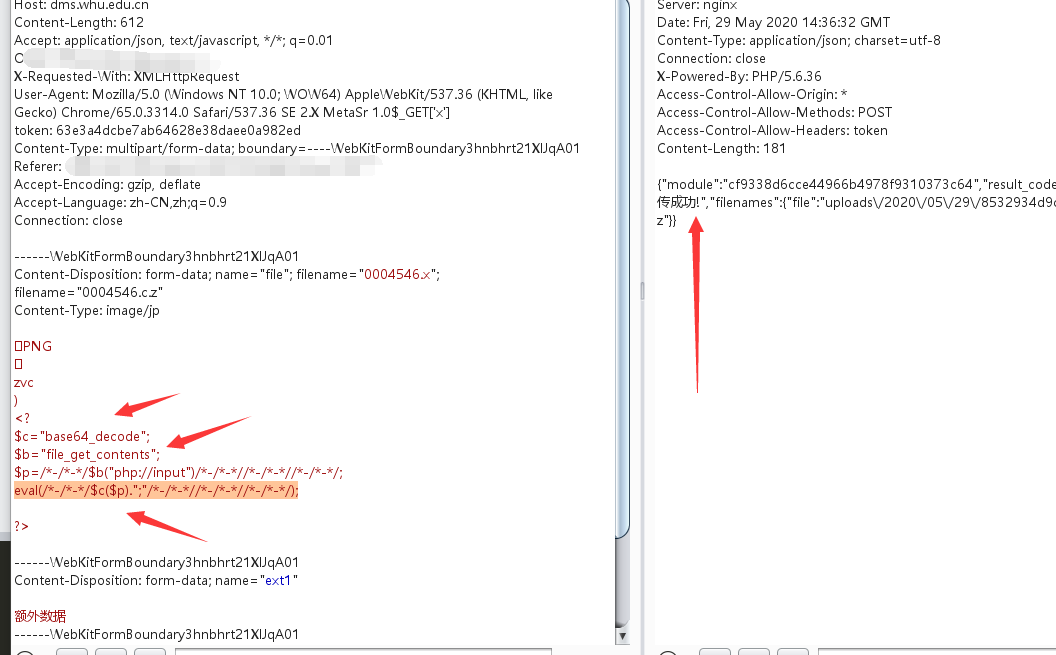
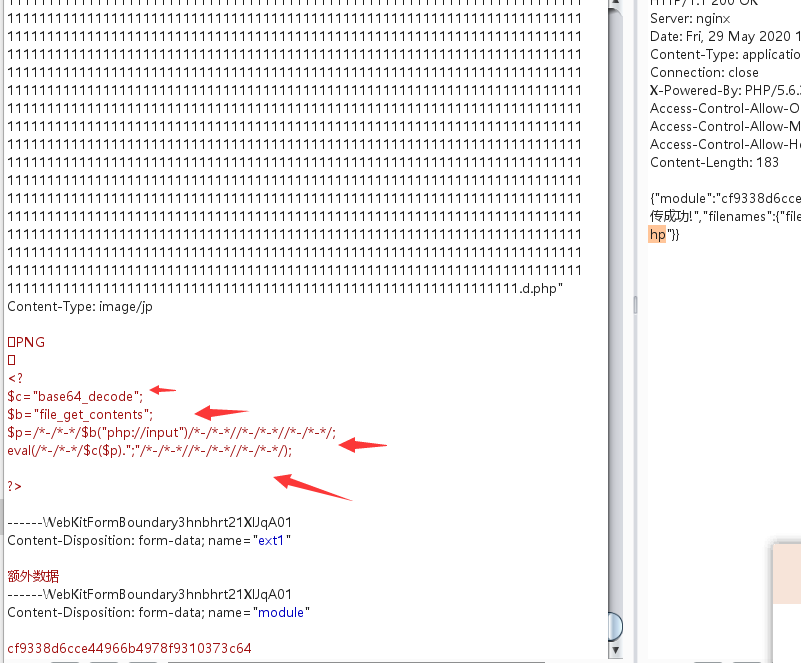
Site updated: 2020-05-30 00:54:37

Changed region(s): [[0.0, 0.0, 1.0, 1.0], [0.3745, 0.7328, 0.437, 0.7634]]

diff --git a/2020/05/29/如何日母校/index.html b/2020/05/29/如何日母校/index.html
@@ -6,11 +6,11 @@
   <meta name="renderer" content="webkit">
   <meta http-equiv="X-UA-Compatible" content="IE=edge" >
   <link rel="dns-prefetch" href="http://yoursite.com">
-  <title>如何日母校 | Hexo</title>
+  <title>如何绕过某985(母校)钢铁waf并拿下该系统 | Hexo</title>
   <meta name="viewport" content="width=device-width, initial-scale=1, maximum-scale=1">
   <meta name="description" content="绕过万恶的waf并getshell">
 <meta property="og:type" content="article">
-<meta property="og:title" content="如何日母校">
+<meta property="og:title" content="如何绕过某985(母校)钢铁waf并拿下该系统">
 <meta property="og:url" content="http://yoursite.com/2020/05/29/%E5%A6%82%E4%BD%95%E6%97%A5%E6%AF%8D%E6%A0%A1/index.html">
 <meta property="og:site_name" content="Hexo">
 <meta property="og:description" content="绕过万恶的waf并getshell">
@@ -25,7 +25,7 @@
 <meta property="og:image" content="http://yoursite.com/2020/05/29/%E5%A6%82%E4%BD%95%E6%97%A5%E6%AF%8D%E6%A0%A1/8.png">
 <meta property="og:image" content="http://yoursite.com/2020/05/29/%E5%A6%82%E4%BD%95%E6%97%A5%E6%AF%8D%E6%A0%A1/9.png">
 <meta property="article:published_time" content="2020-05-29T15:06:01.000Z">
-<meta property="article:modified_time" content="2020-05-29T16:15:45.599Z">
+<meta property="article:modified_time" content="2020-05-29T16:42:00.911Z">
 <meta property="article:author" content="阿欢">
 <meta property="article:tag" content="bypass">
 <meta name="twitter:card" content="summary">
@@ -172,7 +172,7 @@
         
   
     <h1 class="article-title" itemprop="name">
-      如何日母校
+      如何绕过某985(母校)钢铁waf并拿下该系统
     </h1>
   
 
@@ -192,27 +192,28 @@
 <p><strong>正文</strong></p>
 <p>进后台后，找到上传点,首先我发现改后缀后重新发包生成的文件的后缀没有变化,我第一次后缀是.jpg 第二次改成.x 但是显示上传成功还是jpg 此时有一丝不安涌上心头</p>
 <p><img src="/2020/05/29/%E5%A6%82%E4%BD%95%E6%97%A5%E6%AF%8D%E6%A0%A1/1.png" alt="如何日母校"></p>
-<p>接着我想是不是上图中的moudle值影响   然后我改了moudle值 发包  咦  上传成功 然后返回文件还是jpg  不慌 继续<br>然后我改了文件内容 在一发包 嘿嘿 返回文件后缀变成 x了 此时 心中已经是胸有成竹 好像已经日下来了一样(没想到后面绕waf饶了好久)……</p>
+<p>接着我想是不是上图中的moudle值影响   然后我改了moudle值 发包  咦  上传成功 然后返回文件还是jpg  不慌 继续<br>然后我改了文件内容 在一发包 嘿嘿 返回文件后缀变成 x了 此时 心中已经是胸有成竹(应该是判断了文件内容,一样的话就不变,之前也没注意文件名..只盯着后缀了) 好像已经日下来了一样(没想到后面绕waf饶了好久)……</p>
 <p>刚开始的时候 我发现只要一个包被waf检测到 那直接封几个小时…..我擦了…有这么变态的吗……………..然后第一天果断放弃 玩玩游戏什么的不香吗…..</p>
 <p>第二天晚上 有点无聊 打开burp 打开浏览器 访问之 , 这次我发包学聪明了,之前一发恶意包 然后wating 好久 然后connect reset 然后凉凉<br>这次我只要发现在waiting 我直接cancle 我发现这样竟然不会马上封我  可能因为 我提前断开连接了? 还是什么原因不知道 这样就可以继续fuzzing了</p>
-<p>刚开始尝试就给我当头一棒  waf直接检测 <?php   不能出现php标签, 我想 这玩个屁, 只有用php短标签碰一碰运气了  关于php短标签 我是从百度上找的:
-当解析一个文件时，PHP 会寻找起始和结束标记，也就是 <?php 和 ?>，这告诉 PHP 开始和停止解析二者之间的代码。此种解析方式使得 PHP 可以被嵌入到各种不同的文档中去，而任何起始和结束标记之外的部分都会被 PHP 解析器忽略。</p>
-<p>PHP 也允许使用短标记 <? 和 ?>，但不鼓励使用。只有通过激活 php.ini 中的 short_open_tag 配置指令或者在编译 PHP 时使用了配置选项 –enable-short-tags 时才能使用短标记</p>
-<p>因为需要开启一个配置选项 所以说只能是碰碰运气  没想到还真可以  发了个 <? echo 1111 ?> 发现可以 讲到这儿又要说一下怎么绕过  filename=’xxxxx.php’ 这个地方waf的检测了 试了几种  ‘xx.jpg.php’ ‘xxx.php.jpg’  截断 还有各种后缀 phtml pht php3 php4 Php<br>filename=’xxxxx.jpg’；filename=’xxxxx.php’ 还有几种奇奇怪怪的模式 等等发现都绕不过 这时候想起来从别人那学到的垃圾数据,你别说,垃圾数据真给力,我生成了20w个1,发包! 一发入魂,成功让waf崩溃或者说waf对filename的长度没有处理什么的 如下图:</p>
+<p>刚开始尝试就给我当头一棒  waf直接检测 &lt;?php   不能出现php标签, 我想 这玩个屁, 只有用php短标签碰一碰运气了  关于php短标签 我是从百度上找的:<br>当解析一个文件时，PHP 会寻找起始和结束标记，也就是 &lt;?php 和 ?&gt;，这告诉 PHP 开始和停止解析二者之间的代码。此种解析方式使得 PHP 可以被嵌入到各种不同的文档中去，而任何起始和结束标记之外的部分都会被 PHP 解析器忽略。</p>
+<p>PHP 也允许使用短标记 &lt;? 和 ?&gt;，但不鼓励使用。只有通过激活 php.ini 中的 short_open_tag 配置指令或者在编译 PHP 时使用了配置选项 –enable-short-tags 时才能使用短标记</p>
+<p>因为需要开启一个配置选项 所以说只能是碰碰运气  没想到还真可以  发了个</p>
+<figure class="highlight plain"><table><tr><td class="gutter"><pre><span class="line">1</span><br></pre></td><td class="code"><pre><span class="line">&lt;? echo 1111 ?&gt;  </span><br></pre></td></tr></table></figure>
+<p>发现可以 讲到这儿又要说一下怎么绕过  filename=’xxxxx.php’ 这个地方waf的检测了,也就是如何上传php文件 开始试了几种  ‘xx.jpg.php’ ‘xxx.php.jpg’  截断 还有各种后缀 phtml pht php3 php4 Php<br>filename=’xxxxx.jpg’；filename=’xxxxx.php’ 还有几种奇奇怪怪的模式 等等发现都绕不过 这时候想起来从别人那学到的垃圾数据,你别说,垃圾数据真给力,我生成了20w个1,发包! 一发入魂,成功让waf崩溃或者说waf对filename的长度没有处理什么的 如下图:</p>
 <p><img src="/2020/05/29/%E5%A6%82%E4%BD%95%E6%97%A5%E6%AF%8D%E6%A0%A1/2.png" alt="如何日母校"></p>
 <p>接下来继续说php文件的内容如何绕过waf,经过漫长的尝试我发现   eval() 不能出现  而且很多函数 比如 file_get_contents() 都是不能直接出现的 不过有一些函数可以通过</p>
 <figure class="highlight plain"><table><tr><td class="gutter"><pre><span class="line">1</span><br></pre></td><td class="code"><pre><span class="line">$a&#x3D;&quot;file_&quot;+&quot;get_&quot;+&quot;contents&quot;; $a();  </span><br></pre></td></tr></table></figure>  
 <p>这种方式来利用 但是不是所有函数都可以 什么 eval file_put_contents 都不行 本来准备利用 file_put_contents来写文件的这条路也不行了<br>还想到了 无字母shell<br><img src="/2020/05/29/%E5%A6%82%E4%BD%95%E6%97%A5%E6%AF%8D%E6%A0%A1/6.png" alt="如何日母校"><br>可惜直接传不行  需要在后面加一个左括号 (  或者 )  可能检测了括号的匹配对数  然后我尝试 注释掉多余的括号 但是发现 加了注释就绕不过了 ….<br>思考的时候,瞅了瞅以前绕waf的一些东西(所以说收集一些免杀东西什么还是有用的),直接放上去都不太行,不过我发现了一个比较关键的 那就是利用注释来进行混淆    几次尝试后发现 </p>
 <figure class="highlight plain"><table><tr><td class="gutter"><pre><span class="line">1</span><br></pre></td><td class="code"><pre><span class="line">eval(&#x2F;*-&#x2F;*-*&#x2F;$p&#x2F;*-&#x2F;*-*&#x2F;&#x2F;*-&#x2F;*-*&#x2F;&#x2F;*-&#x2F;*-*&#x2F;); </span><br></pre></td></tr></table></figure>
-<p>这个不会被拦截,终于,我看到了希望,只要eval不被拦,什么都有戏,然后就是  如何构造这个$p了 直接<br>从 <figure class="highlight plain"><table><tr><td class="gutter"><pre><span class="line">1</span><br></pre></td><td class="code"><pre><span class="line">$p&#x3D;$-GET[&#39;x&#39;];$p&#x3D;$-POST[&#39;x&#39;];$p&#x3D;$-SERVER[&#39;X&#39;] </span><br></pre></td></tr></table></figure> 这样都是不行会被封, 不过嘛还有 php:input 关于php:input流,我从百度找的介绍:<br>php://input :<br>php://input 是个可以访问请求的原始数据的只读流。 POST 请求的情况下，最好使用 php://input 来代替 $HTTP_RAW_POST_DATA</p>
+<p>这个不会被拦截,终于,我看到了希望,只要eval不被拦,什么都有戏,然后就是  如何构造这个$p了 直接<br>从 <figure class="highlight plain"><table><tr><td class="gutter"><pre><span class="line">1</span><br></pre></td><td class="code"><pre><span class="line">$p&#x3D;$\_GET[&#39;x&#39;];$p&#x3D;$\_POST[&#39;x&#39;];$p&#x3D;$\_SERVER[&#39;X&#39;] </span><br></pre></td></tr></table></figure> 这样都是不行会被封, 不过嘛还有 php//:input 关于php//:input流,我从百度找的介绍:<br>php://input :<br>php://input 是个可以访问请求的原始数据的只读流。 POST 请求的情况下，最好使用 php://input 来代替 $HTTP_RAW_POST_DATA</p>
 <p>通过他能获取参数就是  那么基本的小马就形成了  如下:</p>
 <p><img src="/2020/05/29/%E5%A6%82%E4%BD%95%E6%97%A5%E6%AF%8D%E6%A0%A1/3.png" alt="如何日母校"></p>
 <p>测试一下<br><img src="/2020/05/29/%E5%A6%82%E4%BD%95%E6%97%A5%E6%AF%8D%E6%A0%A1/4.png" alt="如何日母校"></p>
-<p>成功 发现disable了一些东西  刚开始也尝试过写cmd马 system执行也写成功 看来成功了也没用 给禁掉了</p>
+<p>成功 发现disable了一些东西  刚开始也尝试过写cmd马 也没写成功 看来成功了也没用 给禁掉了</p>
 <p>然后直接 </p>
 <figure class="highlight plain"><table><tr><td class="gutter"><pre><span class="line">1</span><br></pre></td><td class="code"><pre><span class="line">file_put_contents(&#39;1.php&#39;,base64_decode(&#39;流量加密小马内容&#39;))</span><br></pre></td></tr></table></figure>  
 
-<p>还是我太天真了  直接给我封了 过不去   看来还需要一层加密  </p>
+<p>还是我太天真了  直接给我封了 过不去   看来还需要一层加密  多加一层base64就ok </p>
 <p><img src="/2020/05/29/%E5%A6%82%E4%BD%95%E6%97%A5%E6%AF%8D%E6%A0%A1/5.png" alt="如何日母校"></p>
 <p>测试一下 </p>
 <p><img src="/2020/05/29/%E5%A6%82%E4%BD%95%E6%97%A5%E6%AF%8D%E6%A0%A1/7.png" alt="如何日母校">  </p>

diff --git a/index.html b/index.html
@@ -159,7 +159,7 @@
         
   
     <h1 itemprop="name">
-      <a class="article-title" href="/2020/05/29/%E5%A6%82%E4%BD%95%E6%97%A5%E6%AF%8D%E6%A0%A1/">如何日母校</a>
+      <a class="article-title" href="/2020/05/29/%E5%A6%82%E4%BD%95%E6%97%A5%E6%AF%8D%E6%A0%A1/">如何绕过某985(母校)钢铁waf并拿下该系统</a>
     </h1>
   
 
@@ -179,27 +179,28 @@
 <p><strong>正文</strong></p>
 <p>进后台后，找到上传点,首先我发现改后缀后重新发包生成的文件的后缀没有变化,我第一次后缀是.jpg 第二次改成.x 但是显示上传成功还是jpg 此时有一丝不安涌上心头</p>
 <p><img src="/2020/05/29/%E5%A6%82%E4%BD%95%E6%97%A5%E6%AF%8D%E6%A0%A1/1.png" alt="如何日母校"></p>
-<p>接着我想是不是上图中的moudle值影响   然后我改了moudle值 发包  咦  上传成功 然后返回文件还是jpg  不慌 继续<br>然后我改了文件内容 在一发包 嘿嘿 返回文件后缀变成 x了 此时 心中已经是胸有成竹 好像已经日下来了一样(没想到后面绕waf饶了好久)……</p>
+<p>接着我想是不是上图中的moudle值影响   然后我改了moudle值 发包  咦  上传成功 然后返回文件还是jpg  不慌 继续<br>然后我改了文件内容 在一发包 嘿嘿 返回文件后缀变成 x了 此时 心中已经是胸有成竹(应该是判断了文件内容,一样的话就不变,之前也没注意文件名..只盯着后缀了) 好像已经日下来了一样(没想到后面绕waf饶了好久)……</p>
 <p>刚开始的时候 我发现只要一个包被waf检测到 那直接封几个小时…..我擦了…有这么变态的吗……………..然后第一天果断放弃 玩玩游戏什么的不香吗…..</p>
 <p>第二天晚上 有点无聊 打开burp 打开浏览器 访问之 , 这次我发包学聪明了,之前一发恶意包 然后wating 好久 然后connect reset 然后凉凉<br>这次我只要发现在waiting 我直接cancle 我发现这样竟然不会马上封我  可能因为 我提前断开连接了? 还是什么原因不知道 这样就可以继续fuzzing了</p>
-<p>刚开始尝试就给我当头一棒  waf直接检测 <?php   不能出现php标签, 我想 这玩个屁, 只有用php短标签碰一碰运气了  关于php短标签 我是从百度上找的:
-当解析一个文件时，PHP 会寻找起始和结束标记，也就是 <?php 和 ?>，这告诉 PHP 开始和停止解析二者之间的代码。此种解析方式使得 PHP 可以被嵌入到各种不同的文档中去，而任何起始和结束标记之外的部分都会被 PHP 解析器忽略。</p>
-<p>PHP 也允许使用短标记 <? 和 ?>，但不鼓励使用。只有通过激活 php.ini 中的 short_open_tag 配置指令或者在编译 PHP 时使用了配置选项 –enable-short-tags 时才能使用短标记</p>
-<p>因为需要开启一个配置选项 所以说只能是碰碰运气  没想到还真可以  发了个 <? echo 1111 ?> 发现可以 讲到这儿又要说一下怎么绕过  filename=’xxxxx.php’ 这个地方waf的检测了 试了几种  ‘xx.jpg.php’ ‘xxx.php.jpg’  截断 还有各种后缀 phtml pht php3 php4 Php<br>filename=’xxxxx.jpg’；filename=’xxxxx.php’ 还有几种奇奇怪怪的模式 等等发现都绕不过 这时候想起来从别人那学到的垃圾数据,你别说,垃圾数据真给力,我生成了20w个1,发包! 一发入魂,成功让waf崩溃或者说waf对filename的长度没有处理什么的 如下图:</p>
+<p>刚开始尝试就给我当头一棒  waf直接检测 &lt;?php   不能出现php标签, 我想 这玩个屁, 只有用php短标签碰一碰运气了  关于php短标签 我是从百度上找的:<br>当解析一个文件时，PHP 会寻找起始和结束标记，也就是 &lt;?php 和 ?&gt;，这告诉 PHP 开始和停止解析二者之间的代码。此种解析方式使得 PHP 可以被嵌入到各种不同的文档中去，而任何起始和结束标记之外的部分都会被 PHP 解析器忽略。</p>
+<p>PHP 也允许使用短标记 &lt;? 和 ?&gt;，但不鼓励使用。只有通过激活 php.ini 中的 short_open_tag 配置指令或者在编译 PHP 时使用了配置选项 –enable-short-tags 时才能使用短标记</p>
+<p>因为需要开启一个配置选项 所以说只能是碰碰运气  没想到还真可以  发了个</p>
+<figure class="highlight plain"><table><tr><td class="gutter"><pre><span class="line">1</span><br></pre></td><td class="code"><pre><span class="line">&lt;? echo 1111 ?&gt;  </span><br></pre></td></tr></table></figure>
+<p>发现可以 讲到这儿又要说一下怎么绕过  filename=’xxxxx.php’ 这个地方waf的检测了,也就是如何上传php文件 开始试了几种  ‘xx.jpg.php’ ‘xxx.php.jpg’  截断 还有各种后缀 phtml pht php3 php4 Php<br>filename=’xxxxx.jpg’；filename=’xxxxx.php’ 还有几种奇奇怪怪的模式 等等发现都绕不过 这时候想起来从别人那学到的垃圾数据,你别说,垃圾数据真给力,我生成了20w个1,发包! 一发入魂,成功让waf崩溃或者说waf对filename的长度没有处理什么的 如下图:</p>
 <p><img src="/2020/05/29/%E5%A6%82%E4%BD%95%E6%97%A5%E6%AF%8D%E6%A0%A1/2.png" alt="如何日母校"></p>
 <p>接下来继续说php文件的内容如何绕过waf,经过漫长的尝试我发现   eval() 不能出现  而且很多函数 比如 file_get_contents() 都是不能直接出现的 不过有一些函数可以通过</p>
 <figure class="highlight plain"><table><tr><td class="gutter"><pre><span class="line">1</span><br></pre></td><td class="code"><pre><span class="line">$a&#x3D;&quot;file_&quot;+&quot;get_&quot;+&quot;contents&quot;; $a();  </span><br></pre></td></tr></table></figure>  
 <p>这种方式来利用 但是不是所有函数都可以 什么 eval file_put_contents 都不行 本来准备利用 file_put_contents来写文件的这条路也不行了<br>还想到了 无字母shell<br><img src="/2020/05/29/%E5%A6%82%E4%BD%95%E6%97%A5%E6%AF%8D%E6%A0%A1/6.png" alt="如何日母校"><br>可惜直接传不行  需要在后面加一个左括号 (  或者 )  可能检测了括号的匹配对数  然后我尝试 注释掉多余的括号 但是发现 加了注释就绕不过了 ….<br>思考的时候,瞅了瞅以前绕waf的一些东西(所以说收集一些免杀东西什么还是有用的),直接放上去都不太行,不过我发现了一个比较关键的 那就是利用注释来进行混淆    几次尝试后发现 </p>
 <figure class="highlight plain"><table><tr><td class="gutter"><pre><span class="line">1</span><br></pre></td><td class="code"><pre><span class="line">eval(&#x2F;*-&#x2F;*-*&#x2F;$p&#x2F;*-&#x2F;*-*&#x2F;&#x2F;*-&#x2F;*-*&#x2F;&#x2F;*-&#x2F;*-*&#x2F;); </span><br></pre></td></tr></table></figure>
-<p>这个不会被拦截,终于,我看到了希望,只要eval不被拦,什么都有戏,然后就是  如何构造这个$p了 直接<br>从 <figure class="highlight plain"><table><tr><td class="gutter"><pre><span class="line">1</span><br></pre></td><td class="code"><pre><span class="line">$p&#x3D;$-GET[&#39;x&#39;];$p&#x3D;$-POST[&#39;x&#39;];$p&#x3D;$-SERVER[&#39;X&#39;] </span><br></pre></td></tr></table></figure> 这样都是不行会被封, 不过嘛还有 php:input 关于php:input流,我从百度找的介绍:<br>php://input :<br>php://input 是个可以访问请求的原始数据的只读流。 POST 请求的情况下，最好使用 php://input 来代替 $HTTP_RAW_POST_DATA</p>
+<p>这个不会被拦截,终于,我看到了希望,只要eval不被拦,什么都有戏,然后就是  如何构造这个$p了 直接<br>从 <figure class="highlight plain"><table><tr><td class="gutter"><pre><span class="line">1</span><br></pre></td><td class="code"><pre><span class="line">$p&#x3D;$\_GET[&#39;x&#39;];$p&#x3D;$\_POST[&#39;x&#39;];$p&#x3D;$\_SERVER[&#39;X&#39;] </span><br></pre></td></tr></table></figure> 这样都是不行会被封, 不过嘛还有 php//:input 关于php//:input流,我从百度找的介绍:<br>php://input :<br>php://input 是个可以访问请求的原始数据的只读流。 POST 请求的情况下，最好使用 php://input 来代替 $HTTP_RAW_POST_DATA</p>
 <p>通过他能获取参数就是  那么基本的小马就形成了  如下:</p>
 <p><img src="/2020/05/29/%E5%A6%82%E4%BD%95%E6%97%A5%E6%AF%8D%E6%A0%A1/3.png" alt="如何日母校"></p>
 <p>测试一下<br><img src="/2020/05/29/%E5%A6%82%E4%BD%95%E6%97%A5%E6%AF%8D%E6%A0%A1/4.png" alt="如何日母校"></p>
-<p>成功 发现disable了一些东西  刚开始也尝试过写cmd马 system执行也写成功 看来成功了也没用 给禁掉了</p>
+<p>成功 发现disable了一些东西  刚开始也尝试过写cmd马 也没写成功 看来成功了也没用 给禁掉了</p>
 <p>然后直接 </p>
 <figure class="highlight plain"><table><tr><td class="gutter"><pre><span class="line">1</span><br></pre></td><td class="code"><pre><span class="line">file_put_contents(&#39;1.php&#39;,base64_decode(&#39;流量加密小马内容&#39;))</span><br></pre></td></tr></table></figure>  
 
-<p>还是我太天真了  直接给我封了 过不去   看来还需要一层加密  </p>
+<p>还是我太天真了  直接给我封了 过不去   看来还需要一层加密  多加一层base64就ok </p>
 <p><img src="/2020/05/29/%E5%A6%82%E4%BD%95%E6%97%A5%E6%AF%8D%E6%A0%A1/5.png" alt="如何日母校"></p>
 <p>测试一下 </p>
 <p><img src="/2020/05/29/%E5%A6%82%E4%BD%95%E6%97%A5%E6%AF%8D%E6%A0%A1/7.png" alt="如何日母校">  </p>

diff --git a/archives/2020/05/index.html b/archives/2020/05/index.html
@@ -174,7 +174,7 @@
     	 
   
     <h1 itemprop="name">
-      <a class="archive-article-title" href="/2020/05/29/%E5%A6%82%E4%BD%95%E6%97%A5%E6%AF%8D%E6%A0%A1/">如何日母校</a>
+      <a class="archive-article-title" href="/2020/05/29/%E5%A6%82%E4%BD%95%E6%97%A5%E6%AF%8D%E6%A0%A1/">如何绕过某985(母校)钢铁waf并拿下该系统</a>
     </h1>
   
 

diff --git a/archives/2020/index.html b/archives/2020/index.html
@@ -174,7 +174,7 @@
     	 
   
     <h1 itemprop="name">
-      <a class="archive-article-title" href="/2020/05/29/%E5%A6%82%E4%BD%95%E6%97%A5%E6%AF%8D%E6%A0%A1/">如何日母校</a>
+      <a class="archive-article-title" href="/2020/05/29/%E5%A6%82%E4%BD%95%E6%97%A5%E6%AF%8D%E6%A0%A1/">如何绕过某985(母校)钢铁waf并拿下该系统</a>
     </h1>
   
 

diff --git a/archives/index.html b/archives/index.html
@@ -174,7 +174,7 @@
     	 
   
     <h1 itemprop="name">
-      <a class="archive-article-title" href="/2020/05/29/%E5%A6%82%E4%BD%95%E6%97%A5%E6%AF%8D%E6%A0%A1/">如何日母校</a>
+      <a class="archive-article-title" href="/2020/05/29/%E5%A6%82%E4%BD%95%E6%97%A5%E6%AF%8D%E6%A0%A1/">如何绕过某985(母校)钢铁waf并拿下该系统</a>
     </h1>
   
 

diff --git a/categories/绕过狗日的waf/index.html b/categories/绕过狗日的waf/index.html
@@ -174,7 +174,7 @@
     	 
   
     <h1 itemprop="name">
-      <a class="archive-article-title" href="/2020/05/29/%E5%A6%82%E4%BD%95%E6%97%A5%E6%AF%8D%E6%A0%A1/">如何日母校</a>
+      <a class="archive-article-title" href="/2020/05/29/%E5%A6%82%E4%BD%95%E6%97%A5%E6%AF%8D%E6%A0%A1/">如何绕过某985(母校)钢铁waf并拿下该系统</a>
     </h1>
   
 

diff --git a/tags/bypass/index.html b/tags/bypass/index.html
@@ -174,7 +174,7 @@
     	 
   
     <h1 itemprop="name">
-      <a class="archive-article-title" href="/2020/05/29/%E5%A6%82%E4%BD%95%E6%97%A5%E6%AF%8D%E6%A0%A1/">如何日母校</a>
+      <a class="archive-article-title" href="/2020/05/29/%E5%A6%82%E4%BD%95%E6%97%A5%E6%AF%8D%E6%A0%A1/">如何绕过某985(母校)钢铁waf并拿下该系统</a>
     </h1>
   
 

diff --git a/2020/03/30/getshell-某发卡平台/index.html b/2020/03/30/getshell-某发卡平台/index.html
@@ -330,7 +330,7 @@
       <i class="icon-circle-left"></i>
       <div class="article-nav-title">
         
-          如何日母校
+          如何绕过某985(母校)钢铁waf并拿下该系统
         
       </div>
     </a>
